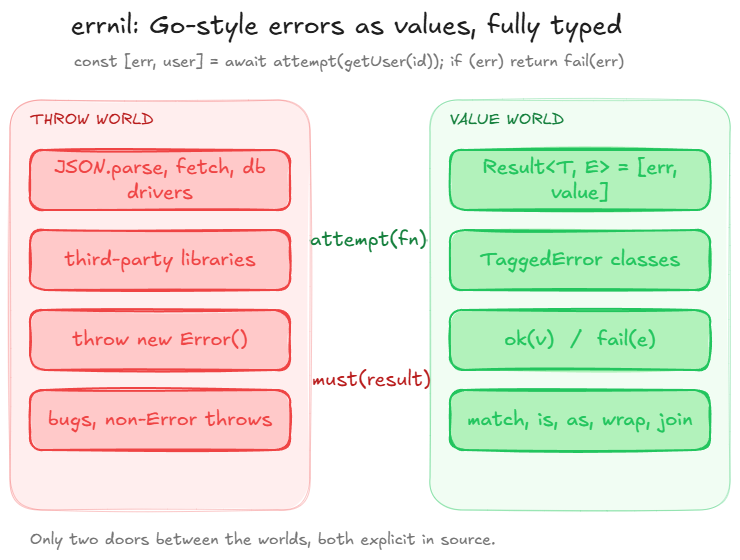
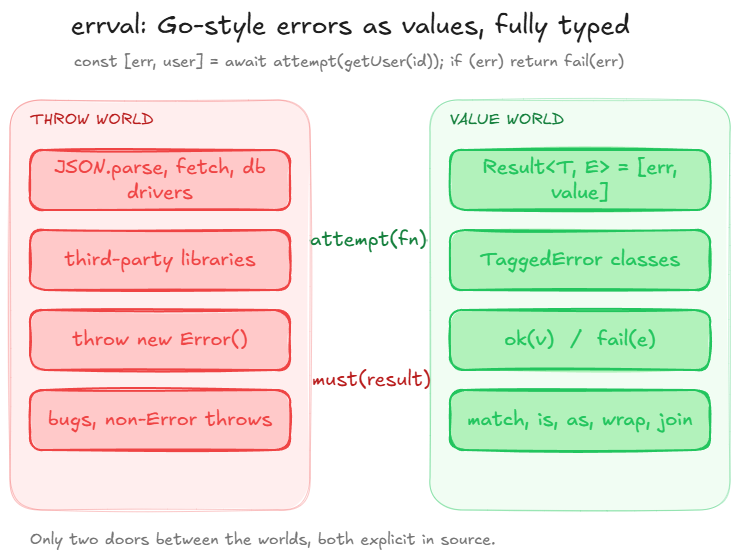
chore: rename the package to errval, npm rejects errnil as too close to errno

Changed region(s): [[0.1243, 0.0, 0.8703, 0.0911]]

diff --git a/bench/creation.bench.ts b/bench/creation.bench.ts
@@ -6,7 +6,7 @@ import { fail, TaggedError } from "../src/index.ts"
 import { NotFound, NotFoundError } from "./shared.ts"
 
 // Cost of producing one domain error value. Stack capture is what separates the fast
-// and slow rows: errnil skips it unless you ask, everything built on `new Error` pays it.
+// and slow rows: errval skips it unless you ask, everything built on `new Error` pays it.
 
 class Traced extends TaggedError("NotFoundTraced", { stack: true })<{ readonly id: string }> {}
 class NativeNotFound extends TaggedError("NotFoundNative", { native: true })<{
@@ -22,11 +22,11 @@ function nextId(): string {
 
 group("create one domain error", () => {
   summary(() => {
-    bench("errnil TaggedError", () => do_not_optimize(new NotFound({ id: nextId() }))).baseline(
+    bench("errval TaggedError", () => do_not_optimize(new NotFound({ id: nextId() }))).baseline(
       true,
     )
-    bench("errnil TaggedError, stack: true", () => do_not_optimize(new Traced({ id: nextId() })))
-    bench("errnil TaggedError, native: true", () =>
+    bench("errval TaggedError, stack: true", () => do_not_optimize(new Traced({ id: nextId() })))
+    bench("errval TaggedError, native: true", () =>
       do_not_optimize(new NativeNotFound({ id: nextId() })),
     )
     bench("plain object literal", () => do_not_optimize({ name: "NotFound", id: nextId() }))
@@ -38,7 +38,7 @@ group("create one domain error", () => {
 
 group("create one failed result", () => {
   summary(() => {
-    bench("errnil fail(new NotFound)", () =>
+    bench("errval fail(new NotFound)", () =>
       do_not_optimize(fail(new NotFound({ id: nextId() }))),
     ).baseline(true)
     bench("neverthrow err(new Error)", () => do_not_optimize(nerr(new NotFoundError(nextId()))))

diff --git a/bench/propagation.bench.ts b/bench/propagation.bench.ts
@@ -8,12 +8,12 @@ import { NotFound, NotFoundError, RATES, rotate } from "./shared.ts"
 
 const DEPTH = 5
 
-function errnilLeaf(id: string): Result<number, NotFound> {
+function errvalLeaf(id: string): Result<number, NotFound> {
   return id.startsWith("m") ? fail(new NotFound({ id })) : ok(id.length)
 }
-function errnilLayer(id: string, depth: number): Result<number, NotFound> {
-  if (depth === 0) return errnilLeaf(id)
-  const [err, value] = errnilLayer(id, depth - 1)
+function errvalLayer(id: string, depth: number): Result<number, NotFound> {
+  if (depth === 0) return errvalLeaf(id)
+  const [err, value] = errvalLayer(id, depth - 1)
   if (err) return fail(wrap(err, `layer ${depth}`))
   return ok(value + 1)
 }
@@ -52,8 +52,8 @@ for (const rate of RATES) {
   group(`propagate through ${DEPTH} layers, ${rate.label}`, () => {
     summary(() => {
       const next = rotate(ids)
-      bench("errnil (wrap per layer)", () => {
-        const [err, value] = errnilLayer(next(), DEPTH)
+      bench("errval (wrap per layer)", () => {
+        const [err, value] = errvalLayer(next(), DEPTH)
         do_not_optimize(err ? err.message.length : value)
       }).baseline(true)
       const next2 = rotate(ids)

diff --git a/bench/validation.bench.ts b/bench/validation.bench.ts
@@ -37,7 +37,7 @@ function makeForms(count: number, invalidPerForm: number): Form[] {
 
 class Invalid extends TaggedError("Invalid")<{ readonly field: string }> {}
 
-function errnilValidate(form: Form): Result<Form, Invalid> {
+function errvalValidate(form: Form): Result<Form, Invalid> {
   const errors: Invalid[] = []
   for (const field of FIELDS) {
     if (form[field] === "") errors.push(new Invalid({ field }))
@@ -92,8 +92,8 @@ for (const invalid of [0, 2, 5]) {
   group(`validate a 10-field form, ${invalid} invalid fields`, () => {
     summary(() => {
       const next = rotate(forms)
-      bench("errnil (TaggedError + join)", () => {
-        const [err, form] = errnilValidate(next())
+      bench("errval (TaggedError + join)", () => {
+        const [err, form] = errvalValidate(next())
         do_not_optimize(err ? err.message.length : form)
       }).baseline(true)
       const next2 = rotate(forms)

diff --git a/bench/handler.bench.ts b/bench/handler.bench.ts
@@ -24,8 +24,8 @@ function respond(status: number, _body: unknown): number {
   return status
 }
 
-// errnil
-function errnilHandler(body: string): number {
+// errval
+function errvalHandler(body: string): number {
   const [perr, input] = attempt(() => JSON.parse(body) as Input, Parse)
   if (perr) return respond(400, perr.message)
   if (input.age < 0) return respond(422, new Invalid({ field: "age" }).message)
@@ -148,7 +148,7 @@ for (const rate of RATES) {
   group(`request handler, ${rate.label}`, () => {
     summary(() => {
       const next = rotate(bodies)
-      bench("errnil", () => do_not_optimize(errnilHandler(next()))).baseline(true)
+      bench("errval", () => do_not_optimize(errvalHandler(next()))).baseline(true)
       const next2 = rotate(bodies)
       bench("throw/catch", () => do_not_optimize(throwHandler(next2())))
       const next3 = rotate(bodies)

diff --git a/src/error.ts b/src/error.ts
@@ -7,7 +7,7 @@ import type {
   TaggedErrorOptions,
 } from "./types.ts"
 
-const BRAND: symbol = Symbol.for("errnil.tagged")
+const BRAND: symbol = Symbol.for("errval.tagged")
 
 type ErrorWithStack = {
   captureStackTrace?: (target: object, ctor?: Function) => void
@@ -301,7 +301,7 @@ export function match<E extends object, const H extends Handlers<E>>(
   const name = nameOf(error)
   const handler = isTagged(error) && Object.hasOwn(table, name) ? table[name] : table._
   if (typeof handler !== "function") {
-    throw new TypeError(`errnil.match: no handler for ${name}`)
+    throw new TypeError(`errval.match: no handler for ${name}`)
   }
   return handler(error) as HandlerResult<H>
 }

diff --git a/bench/async.bench.ts b/bench/async.bench.ts
@@ -23,7 +23,7 @@ for (const rejectRate of [0, 0.1, 0.5]) {
   group(`await one promise, ${rejectRate * 100}% rejections`, () => {
     summary(() => {
       const next = rotate(sources)
-      bench("errnil attempt(promise)", async () => {
+      bench("errval attempt(promise)", async () => {
         const [err, value] = await attempt(next()())
         do_not_optimize(err ? err.message.length : value)
       }).baseline(true)

diff --git a/assets/code/hero.ts b/assets/code/hero.ts
@@ -1,4 +1,4 @@
-import { attempt, fail, ok, match, TaggedError } from "errnil"
+import { attempt, fail, ok, match, TaggedError } from "errval"
 
 class NotFound extends TaggedError("NotFound")<{ id: string }> {}
 class DbError extends TaggedError("DbError")<{ cause: Error }> {}

diff --git a/README.md b/README.md
@@ -1,19 +1,19 @@
-# errnil
+# errval
 
-`if err != nil`, for TypeScript.
+Errors as values, the Go way, with the types Go never had.
 
 Errors as values, the way Go does it, with the one thing Go cannot give you:
 the compiler knows exactly which errors a function can return, and it makes
 you handle every one of them.
 
 ```sh
-npm install errnil
+npm install errval
 ```
 
 Zero dependencies. ESM. Node 20+, Bun, Deno, browsers, workers. 1.4 kB gzipped.
 
 <p align="center">
-  <img src="assets/code/hero.svg" alt="errnil in twenty lines" width="820">
+  <img src="assets/code/hero.svg" alt="errval in twenty lines" width="820">
 </p>
 
 ## Why
@@ -24,7 +24,7 @@ nothing unwinds the stack behind your back. What I did not like was losing the
 types. In Go every error is `error`. In TypeScript, with a bit of inference,
 every error can be exactly what it is.
 
-So the idea of errnil is small:
+So the idea of errval is small:
 
 - A result is a plain tuple, `[err, value]`. No class, no `.map`, no `yield*`.
   You check `err`, and TypeScript narrows `value` for you.
@@ -47,7 +47,7 @@ Define errors. The tag becomes the literal `name`, the props become readonly
 fields:
 
 ```ts
-import { TaggedError } from "errnil"
+import { TaggedError } from "errval"
 
 class NotFound extends TaggedError("NotFound")<{ id: string }> {}
 class Forbidden extends TaggedError("Forbidden")<{ reason: string }> {}
@@ -57,7 +57,7 @@ class DbError extends TaggedError("DbError")<{ cause: Error }> {}
 Return them with `fail`, return values with `ok`. The union is inferred:
 
 ```ts
-import { ok, fail, attempt } from "errnil"
+import { ok, fail, attempt } from "errval"
 
 async function getDocument(id: string, user: string) {
   const [err, row] = await attempt(() => db.query(sql, [id]), DbError)
@@ -81,7 +81,7 @@ doc.title
 Handle it at the edge, exhaustively. Forget a case and it will not compile:
 
 ```ts
-import { match } from "errnil"
+import { match } from "errval"
 
 return match(err, {
   NotFound: (e) => respond(404, `no document ${e.id}`),
@@ -101,15 +101,15 @@ That is most of the library.
 <table>
 <tr>
 <th>Go</th>
-<th>errnil</th>
+<th>errval</th>
 </tr>
 <tr>
 <td><img src="assets/code/go.svg" alt="Go" width="420"></td>
-<td><img src="assets/code/errnil.svg" alt="errnil" width="420"></td>
+<td><img src="assets/code/errval.svg" alt="errval" width="420"></td>
 </tr>
 </table>
 
-| Go | errnil |
+| Go | errval |
 | --- | --- |
 | `v, err := f()` | `const [err, v] = f()` |
 | `if err != nil { return nil, err }` | `if (err) return fail(err)` |
@@ -205,7 +205,7 @@ constructor with stack capture suppressed: about 165 ns per error on Node and
 one from JSON or a clone.
 
 **Bun's `console.log`.** Bun formats only native-slot objects as errors, so
-errnil installs a `Bun.inspect.custom` hook on Bun (and only there) that
+errval installs a `Bun.inspect.custom` hook on Bun (and only there) that
 prints `[NotFound: message] { id: '42' }` with the cause. Node keeps its own
 formatting.
 
@@ -216,7 +216,7 @@ expression in an `extends` clause (TS9021), so an exported
 the identifier:
 
 ```ts
-import { TaggedError, type TaggedErrorClass } from "errnil"
+import { TaggedError, type TaggedErrorClass } from "errval"
 
 const Base: TaggedErrorClass<"NotFound"> = TaggedError("NotFound")
 export class NotFound extends Base<{ id: string }> {}
@@ -234,7 +234,7 @@ is better.
 
 Request handler (parse, validate, look up, respond):
 
-| failures | errnil | throw/catch | neverthrow | effect (runSync) | @superbuilders/errors |
+| failures | errval | throw/catch | neverthrow | effect (runSync) | @superbuilders/errors |
 | --- | --- | --- | --- | --- | --- |
 | 0%, Bun | 156 | 140 | 155 | 1484 | 151 |
 | 10%, Bun | 161 | 232 | 156 | 1705 | 303 |
@@ -245,7 +245,7 @@ Request handler (parse, validate, look up, respond):
 
 Validating a ten-field form and reporting every invalid field:
 
-| invalid fields | errnil | throw AggregateError | neverthrow (plain objects) | effect Data.TaggedError | @superbuilders/errors |
+| invalid fields | errval | throw AggregateError | neverthrow (plain objects) | effect Data.TaggedError | @superbuilders/errors |
 | --- | --- | --- | --- | --- | --- |
 | 0, Bun | 121 | 117 | 111 | 108 | 116 |
 | 2, Bun | 225 | 1876 | 124 | 1357 | 2944 |
@@ -258,7 +258,7 @@ Creating one domain error:
 
 | | Bun | Node |
 | --- | --- | --- |
-| errnil `new NotFound({ id })` | 15 | 25 |
+| errval `new NotFound({ id })` | 15 | 25 |
 | plain object literal | 7 | 19 |
 | `new Error` subclass | 437 | 1978 |
 | effect `Data.TaggedError` | 516 | 2908 |
@@ -266,7 +266,7 @@ Creating one domain error:
 
 Five layers deep, one `wrap` per layer on the way out:
 
-| failures | errnil | throw/catch (rethrow with cause) | neverthrow (map/mapErr) |
+| failures | errval | throw/catch (rethrow with cause) | neverthrow (map/mapErr) |
 | --- | --- | --- | --- |
 | 0%, Bun | 46 | 14 | 64 |
 | 50%, Bun | 129 | 2851 | 145 |
@@ -275,7 +275,7 @@ Five layers deep, one `wrap` per layer on the way out:
 
 Awaiting one promise through the boundary:
 
-| rejections | errnil `attempt` | raw `try { await }` | neverthrow `ResultAsync` | @superbuilders/errors.try |
+| rejections | errval `attempt` | raw `try { await }` | neverthrow `ResultAsync` | @superbuilders/errors.try |
 | --- | --- | --- | --- | --- |
 | 0%, Bun | 178 | 115 | 337 | 190 |
 | 50%, Bun | 458 | 541 | 625 | 656 |
@@ -285,12 +285,12 @@ Awaiting one promise through the boundary:
 The honest parts. On the all-success path throw/catch is a few percent faster:
 a `try` block that never throws costs nothing, and a tuple costs one small
 allocation. `attempt(promise)` is one extra promise, about 50 ns, over a raw
-`try { await }`. neverthrow with plain object errors beats errnil on the
+`try { await }`. neverthrow with plain object errors beats errval on the
 validation and Node propagation rows because those objects carry no name and
-no message; errnil errors are real `Error`-compatible objects with both, and
+no message; errval errors are real `Error`-compatible objects with both, and
 `wrap` builds a message string per layer. Once anything on the other side
 calls `new Error`, and that includes Effect's `Data.TaggedError` and every
-throw-based library, errnil is 10x to 100x ahead, and the gap grows with the
+throw-based library, errval is 10x to 100x ahead, and the gap grows with the
 failure rate. The numbers you should care about are the ones that match your
 failure rate.
 
@@ -298,7 +298,7 @@ failure rate.
 
 neverthrow if you want a chainable Result with combinators. Effect if you want
 a whole runtime. `@superbuilders/errors` if you want Go's `errors` package
-but are fine with throwing. errnil sits in the gap: tuple results, inferred
+but are fine with throwing. errval sits in the gap: tuple results, inferred
 error unions, exhaustive matching, and Go's chain-walking helpers, in a
 package small enough to read in one sitting.
 

diff --git a/CONTRIBUTING.md b/CONTRIBUTING.md
@@ -1,6 +1,6 @@
 # Contributing
 
-Thanks for looking. errnil is small on purpose, so most contributions are bug
+Thanks for looking. errval is small on purpose, so most contributions are bug
 fixes, type-level fixes, docs, and benchmarks. Bigger ideas are welcome too,
 but open an issue first so we can talk about whether they fit before you spend
 an evening on them.
@@ -11,8 +11,8 @@ You need [bun](https://bun.sh) (the package manager and script runner here)
 and Node 20 or newer (tests and examples run on both).
 
 ```sh
-git clone https://github.com/aymaneallaoui/errnil
-cd errnil
+git clone https://github.com/aymaneallaoui/errval
+cd errval
 bun install
 bun run check      # lint, typecheck, tests, type tests, build
 ```

diff --git a/CHANGELOG.md b/CHANGELOG.md
@@ -32,5 +32,5 @@ First release.
 - Benchmarks against throw/catch, neverthrow, effect and
   `@superbuilders/errors` on Bun and Node.
 
-[Unreleased]: https://github.com/aymaneallaoui/errnil/compare/v0.1.0...HEAD
-[0.1.0]: https://github.com/aymaneallaoui/errnil/releases/tag/v0.1.0
+[Unreleased]: https://github.com/aymaneallaoui/errval/compare/v0.1.0...HEAD
+[0.1.0]: https://github.com/aymaneallaoui/errval/releases/tag/v0.1.0

diff --git a/SECURITY.md b/SECURITY.md
@@ -1,6 +1,6 @@
 # Security
 
-errnil has no dependencies, does no I/O, and never evaluates input. The
+errval has no dependencies, does no I/O, and never evaluates input. The
 attack surface is small, but it is not zero: it creates objects from data you
 pass in, and it walks `cause` chains on errors that may have come from
 anywhere.
